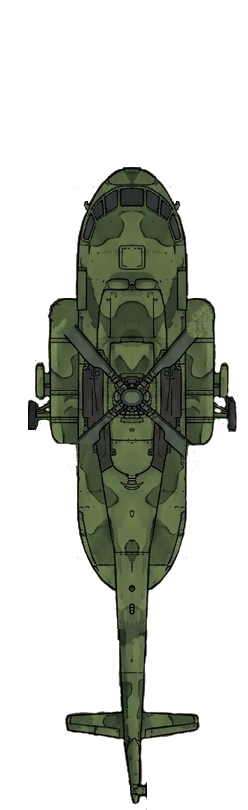
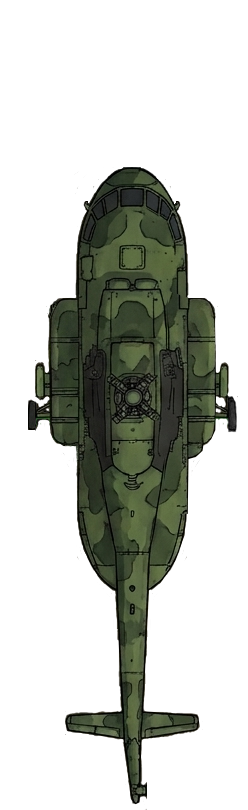
transport heli graphic update

diff --git a/src/GameDemo/RTSDemo/Units/TransportHelicopter.java b/src/GameDemo/RTSDemo/Units/TransportHelicopter.java
@@ -74,7 +74,7 @@ public class TransportHelicopter extends RTSUnit implements ReinforcementPoint, 
         for (int team : RTSGame.activeTeams) {
             Sprite body = new Sprite(RTSAssetManager.getTransportHeliBody(team));
             body.applyAlphaEdgeBlurSelf(1);
-            body.setBrightness(.9);
+//            body.setBrightness(.9);
             bodySpriteMap.put(team, body);
 
             Sprite blades = new Sprite(RTSAssetManager.getTransportHeliBlades(team));
@@ -84,7 +84,7 @@ public class TransportHelicopter extends RTSUnit implements ReinforcementPoint, 
 
             Sprite roof = new Sprite(RTSAssetManager.getTransportHeliRoof(team));
             roof.scaleTo(VISUAL_SCALE);
-            roof.setBrightness(.9);
+//            roof.setBrightness(.9);
 //            roof.applyAlphaEdgeBlurSelf(1);
             roofSpriteMap.put(team, roof);
         }